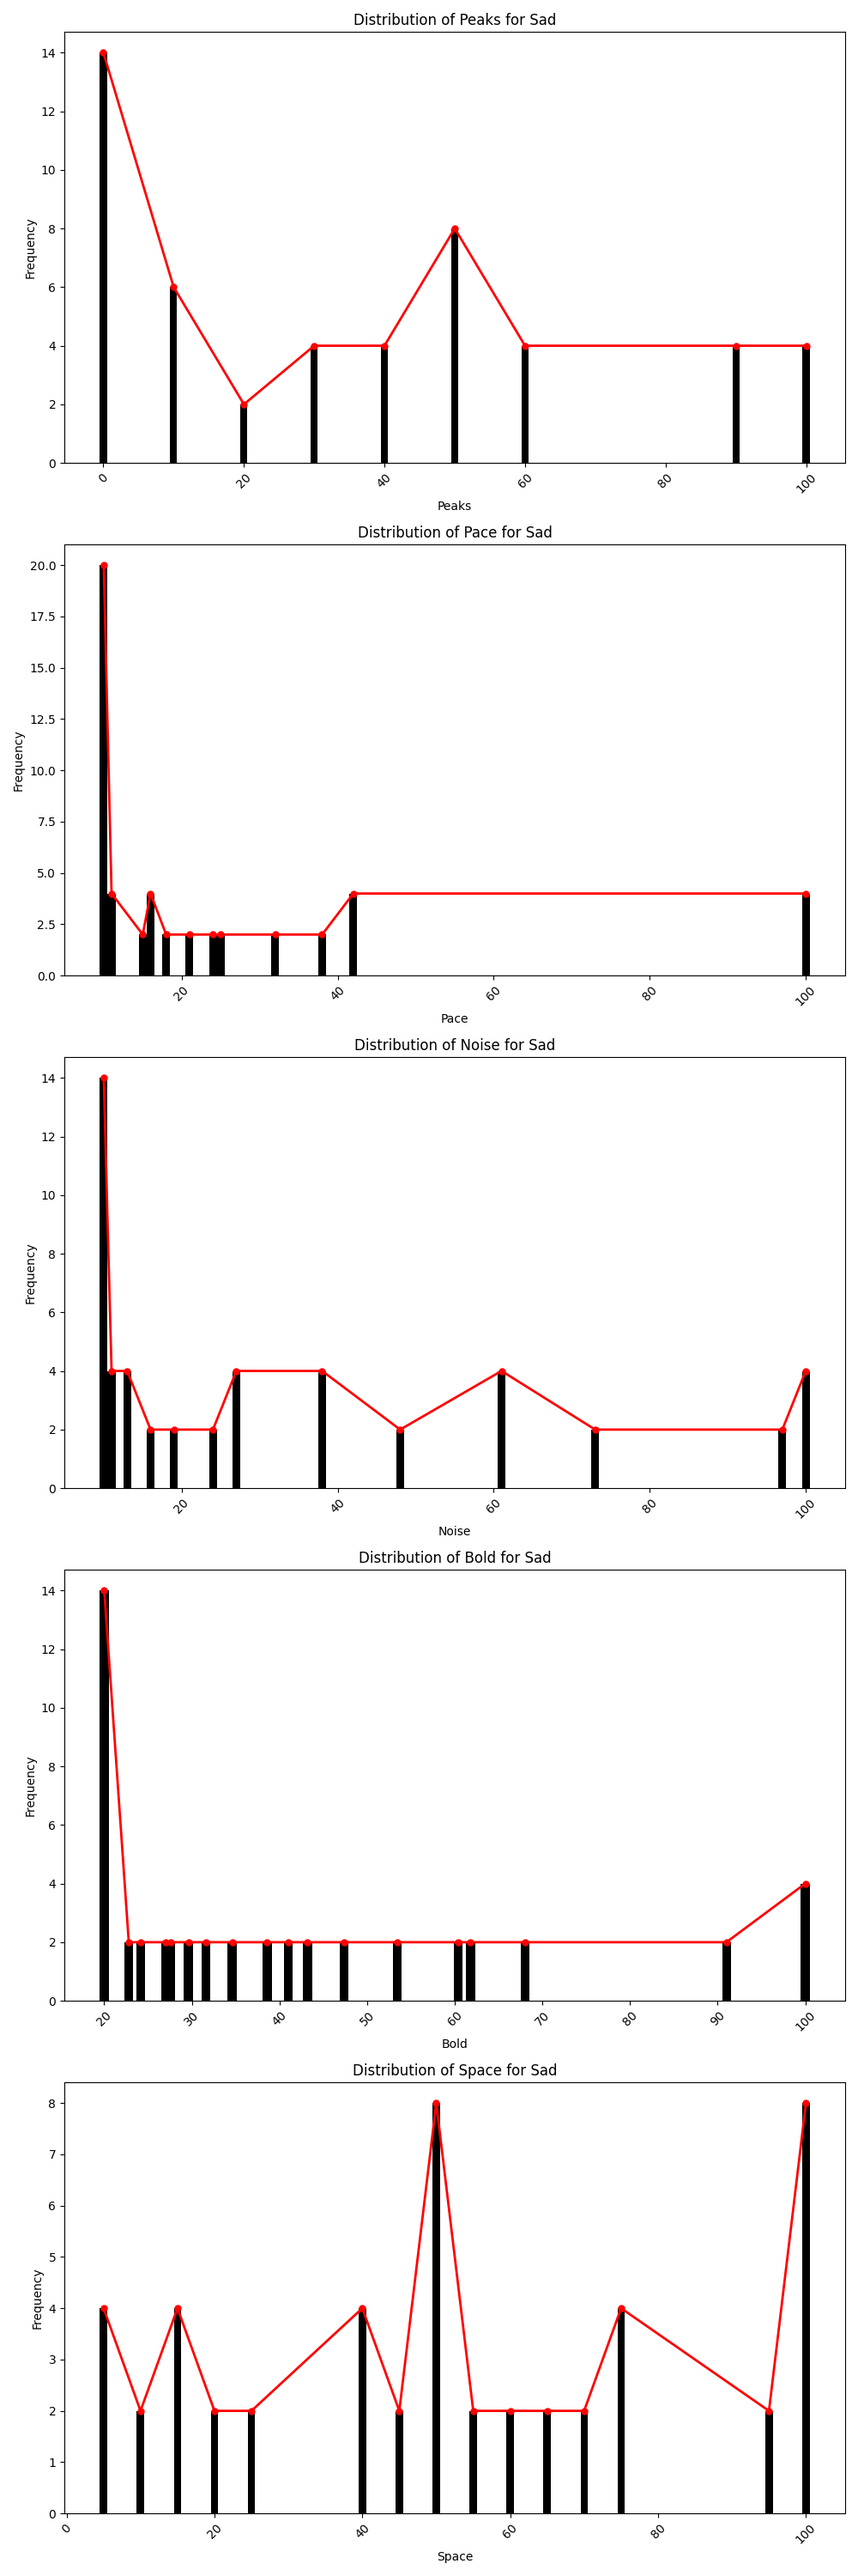
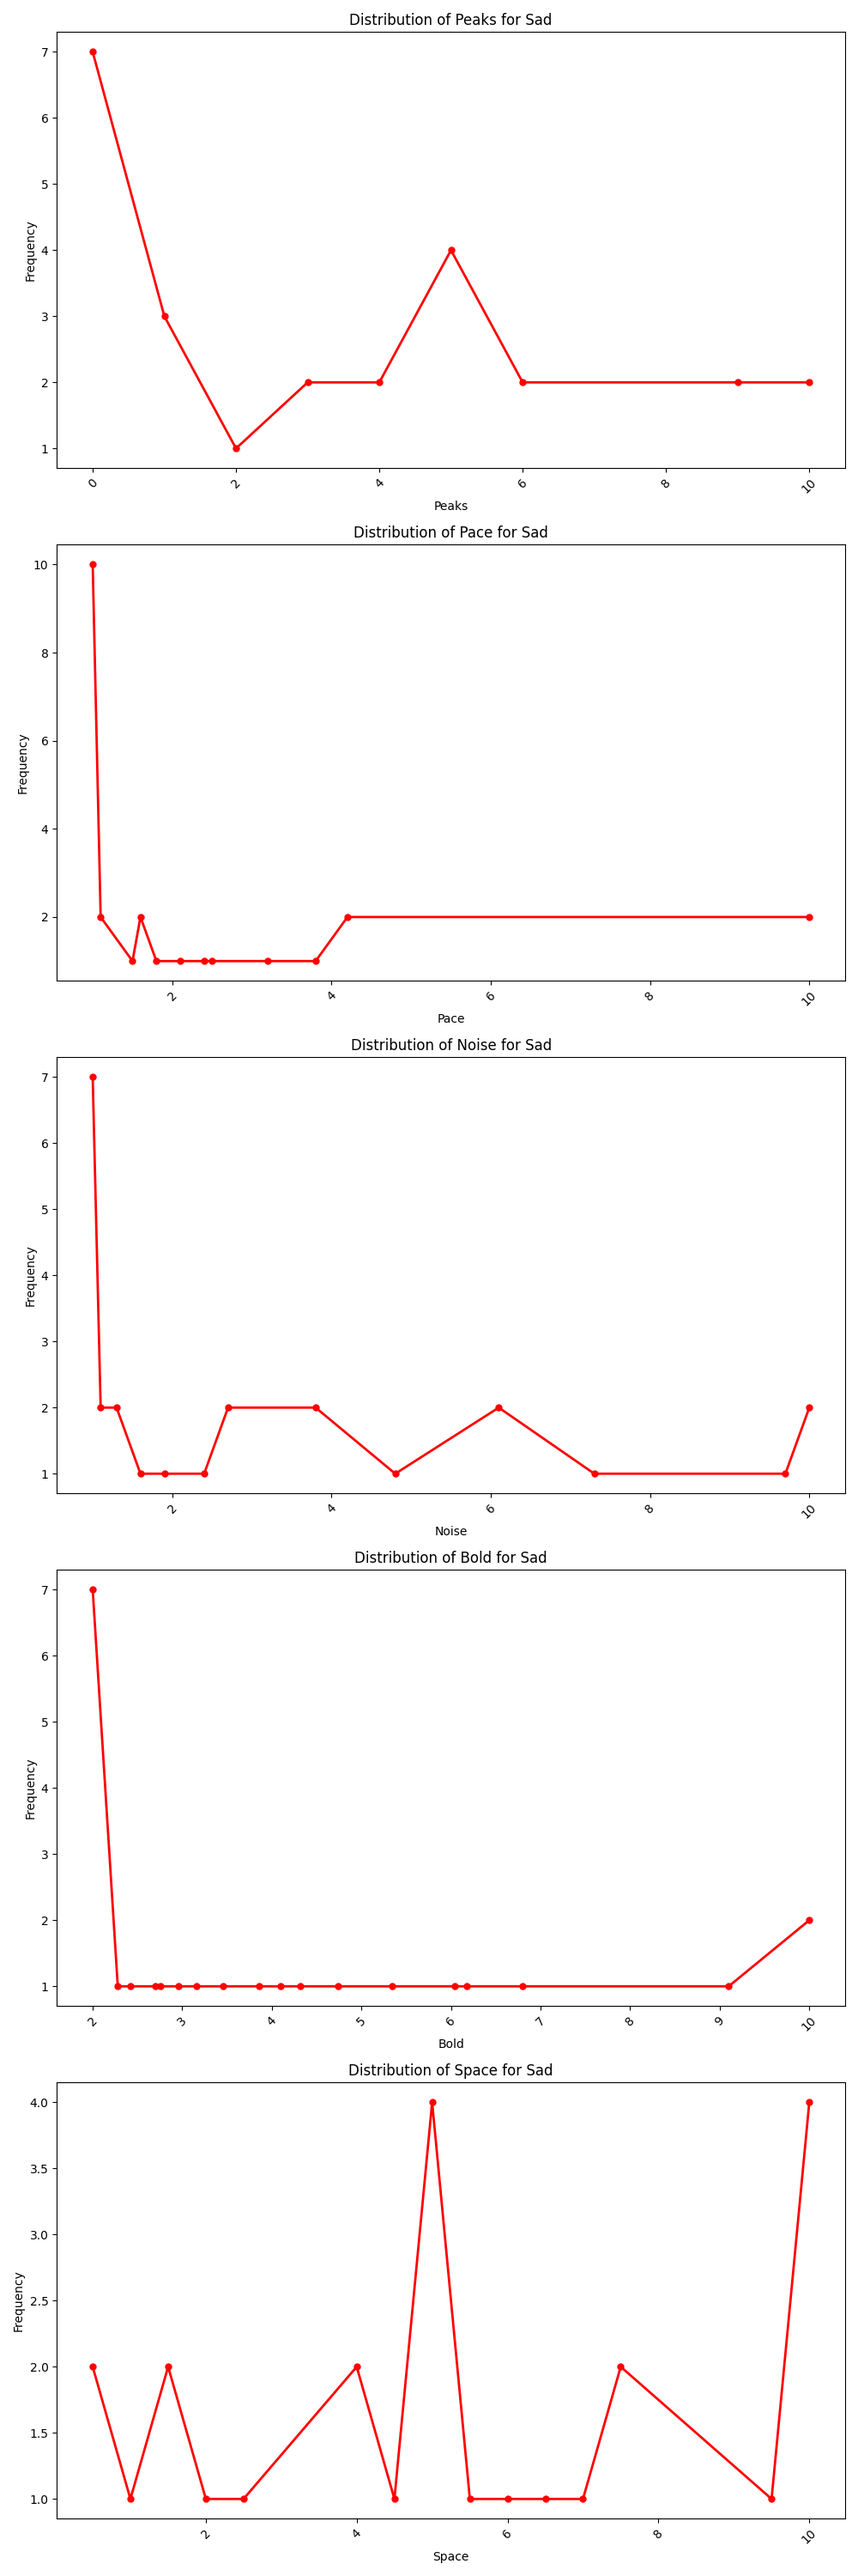
fixed scaling for each value

diff --git a/analyzer/analyze.py b/analyzer/analyze.py
@@ -38,20 +38,20 @@ def graph_emotion_type(emotion, feature, ax):
     values = list(data.values())
 
     if (feature == 'pk'): 
-        scale = 10
+        scale = 1
     elif (feature == 'pc'):
-        scale = 1000
-    elif (feature == 'n'):
         scale = 100
+    elif (feature == 'n'):
+        scale = 10
     elif (feature == 'b'):
-        scale = 20
+        scale = 2
     elif (feature == 's'):
-        scale = 5
+        scale = 0.5
 
     scaled_keys = [key * scale for key in keys]
 
     # Create a bar plot of the distribution
-    ax.bar(scaled_keys, values, color='black', width=1)
+    # ax.bar(scaled_keys, values, color='black', width=1)
 
     # Plot a line that connects the bars
     ax.plot(scaled_keys, values, color='red', marker='o', linestyle='-', linewidth=2, markersize=5, label='Trend Line')

diff --git a/analyzer/box.py b/analyzer/box.py
@@ -40,6 +40,21 @@ box_plot_data = [
     },
 ]
 
+for emotion in box_plot_data:
+    for key, list_value in emotion.items():
+        if (key == 'pk'): 
+            scale = 1
+        elif (key == 'pc'):
+            scale = 100
+        elif (key == 'n'):
+            scale = 10
+        elif (key == 'b'):
+            scale = 2
+        elif (key == 's'):
+            scale = 0.5
+        for i in range(len(list_value)):
+            list_value[i] *= scale
+
 # Assert all lists have exactly 6 elements
 for emotion_data in box_plot_data:
     for feature_values in emotion_data.values():
